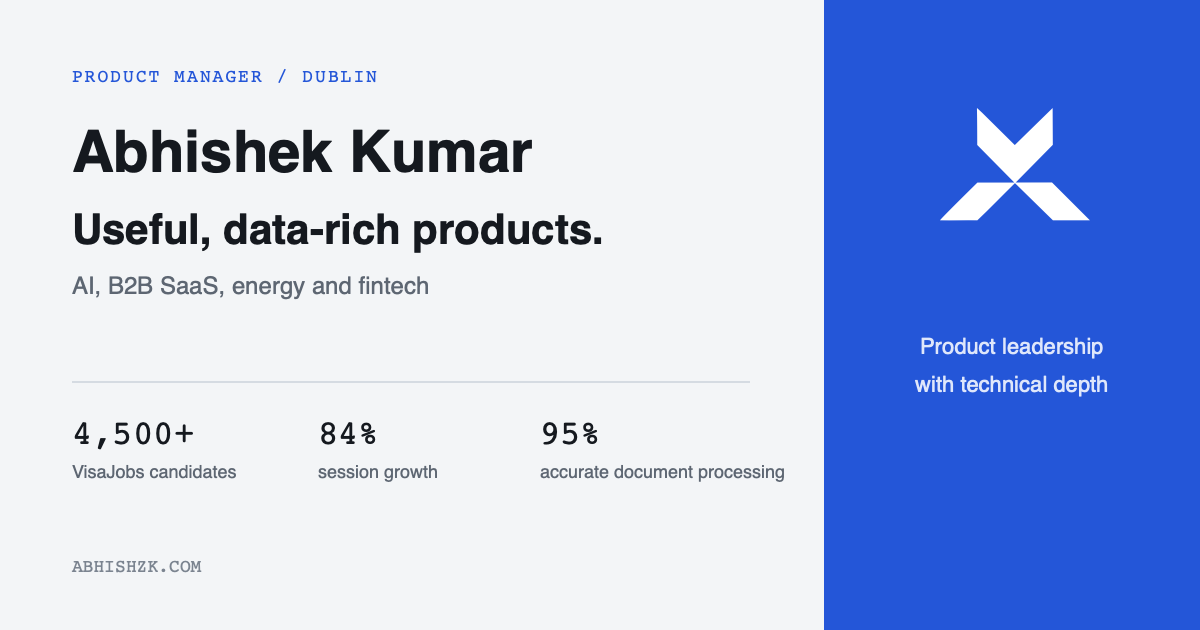
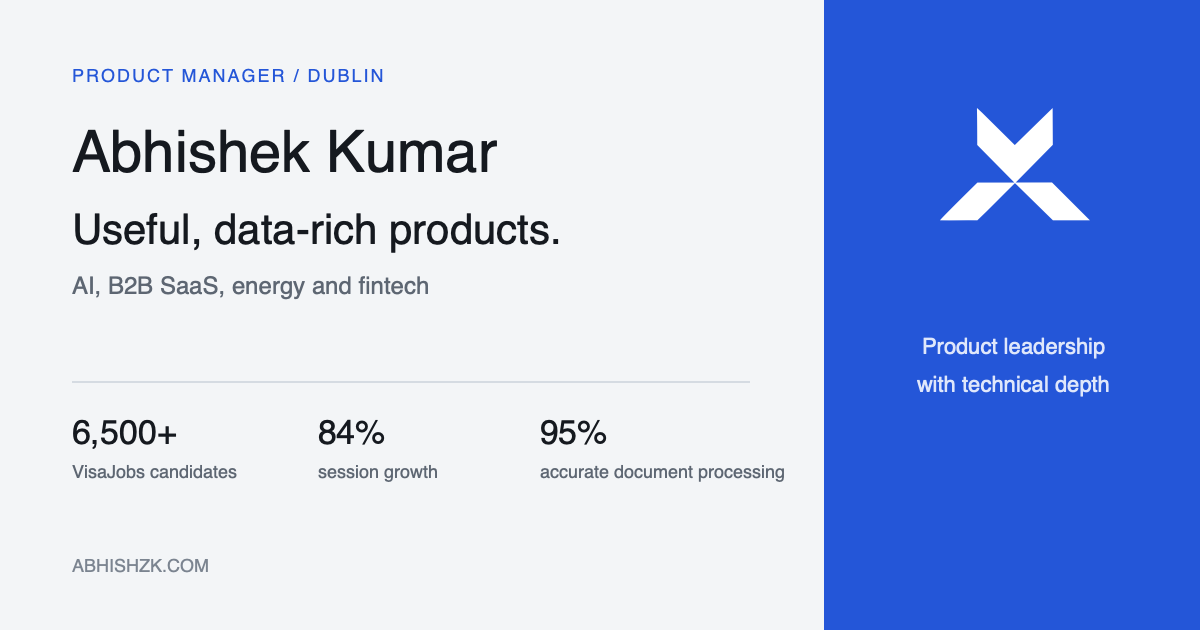
update VisaJobs candidate figures to 6,500+ across portfolio and related assets

diff --git a/src/lib/data/portfolio.ts b/src/lib/data/portfolio.ts
@@ -52,7 +52,7 @@ export const externalLinks = {
 
 export const visaJobsPublicMetrics: CaseStudyMetric[] = [
 	{
-		value: '4,500+',
+		value: '6,500+',
 		label: 'candidates',
 		verifiedAt: 'September 2026',
 		sourceNote: 'Public product figure confirmed by Abhishek'
@@ -113,7 +113,7 @@ export const caseStudies: CaseStudy[] = [
 			'/images/casestudies/visajobs-product-720.webp 720w, /images/casestudies/visajobs-product-1200.webp 1200w, /images/casestudies/visajobs-product.webp 1440w',
 		decision:
 			'Use official permit history as the trust layer, then connect it to live jobs and decision tools.',
-		result: '4,500+ candidates and a new verified employer product.',
+		result: '6,500+ candidates and a new verified employer product.',
 		imageCaption:
 			'Real VisaJobs product capture showing the search experience built around public permit evidence.',
 		context: {
@@ -272,7 +272,7 @@ export function getCaseStudy(slug: CaseStudy['slug']): CaseStudy {
 }
 
 export const homeMetrics: CaseStudyMetric[] = [
-	{ value: '4,500+', label: 'VisaJobs candidates' },
+	{ value: '6,500+', label: 'VisaJobs candidates' },
 	{ value: '84%', label: 'platform session growth' },
 	{ value: '95%', label: 'accurate document processing' },
 	{ value: '28+', label: 'AI product integrations' }
@@ -325,7 +325,7 @@ export const experience: Experience[] = [
 		summary:
 			'Building a data product that helps international candidates and Irish employers make visa-sponsorship decisions with evidence.',
 		outcomes: [
-			'Grew the candidate product to 4,500+ candidates.',
+			'Grew the candidate product to 6,500+ candidates.',
 			'Expanded into verified employer claiming and job posting.',
 			'Turned official permit data into search, comparison, scoring, and planning tools.'
 		]

diff --git a/src/routes/work/visajobs/+page.svelte b/src/routes/work/visajobs/+page.svelte
@@ -12,7 +12,7 @@
 
 	const study = getCaseStudy('visajobs');
 	const description =
-		'How Abhishek Kumar built VisaJobs Ireland from a personal job-search problem into a data product for 4,500+ candidates and Irish employers.';
+		'How Abhishek Kumar built VisaJobs Ireland from a personal job-search problem into a data product for 6,500+ candidates and Irish employers.';
 	const structuredData = {
 		'@context': 'https://schema.org',
 		'@type': 'CreativeWork',

diff --git a/scripts/build-resume.py b/scripts/build-resume.py
@@ -279,7 +279,7 @@ def build_resume():
     story.extend(section("Selected product impact"))
     impact = Table(
         [[
-            metric("3,500+", "VisaJobs candidates"),
+            metric("6,500+", "VisaJobs candidates"),
             metric("84%", "platform session growth"),
             metric("95%", "PDF bill accuracy"),
             metric("28+", "AI product integrations"),
@@ -309,7 +309,7 @@ def build_resume():
             "Dublin, Ireland",
             "Jan 2026 - Present",
             [
-                "Founded and lead a searchable sponsorship data product used by 3,500+ candidates across 142 nationalities, covering 204,612 permit records, 22,800+ employers, and 4,400+ live jobs.",
+                "Founded and lead a searchable sponsorship data product used by 6,500+ candidates across 142 nationalities, covering 204,612 permit records, 22,800+ employers, and 4,400+ live jobs.",
                 "Turned fragmented government permit data into sponsor verification, company comparison, live job search, permit tools, and application tracking with clear evidence and source boundaries.",
                 "Validated demand through 51,000+ launch-post views and 1,400+ click-throughs, then expanded the candidate product into a verified employer platform from inbound market feedback.",
             ],

diff --git a/README.md b/README.md
@@ -30,9 +30,9 @@ npm run build
 
 ## Content maintenance
 
-Shared portfolio content and changing product figures live in `src/lib/data/portfolio.ts`.
-
-VisaJobs figures include a verification date and source note. Update those values in one place when public product numbers change.
+Shared portfolio content and canonical VisaJobs figures live in `src/lib/data/portfolio.ts`.
+Figures include a verification date and source note. When public product numbers change, also
+update matching narrative copy, social-card SVGs and generated PNGs, and the resume source and PDF.
 
 The public resume is generated from `scripts/build-resume.py` and published at
 `/abhishek-kumar-resume.pdf`. The script requires ReportLab.
